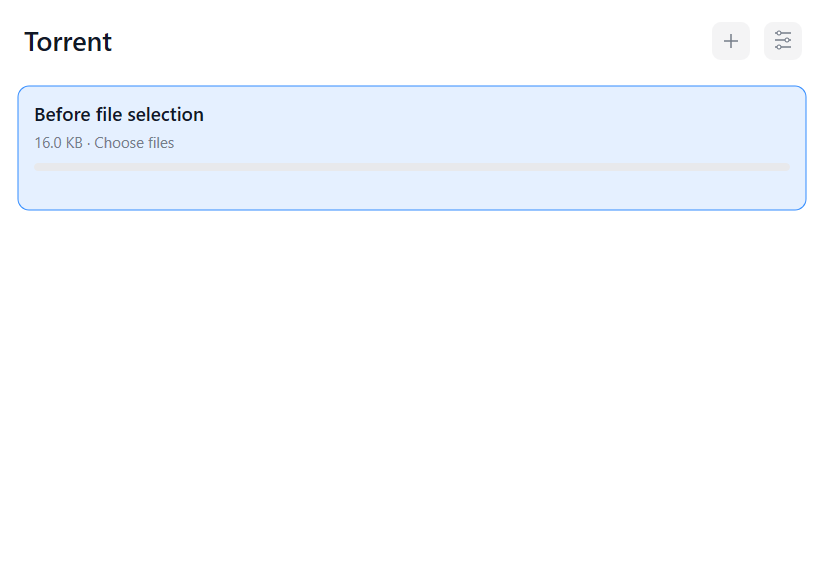
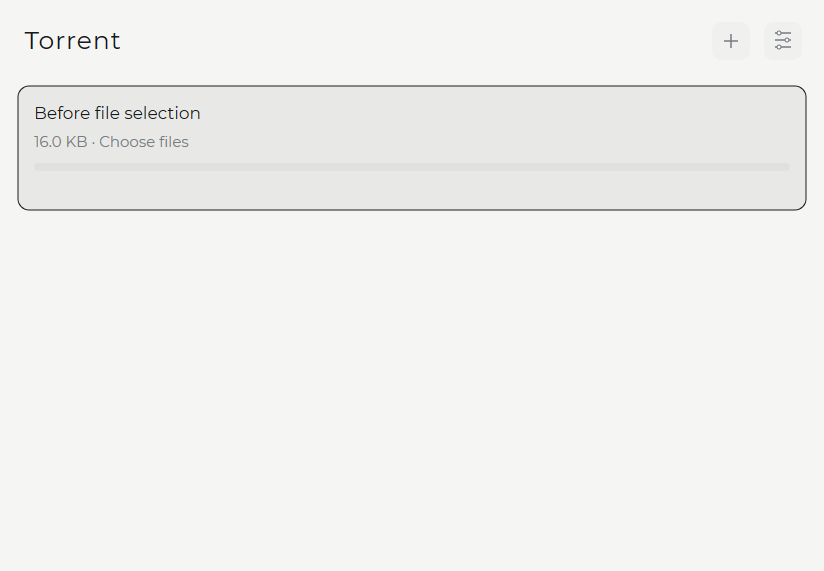
Show light and dark Montserrat themes on the project page

diff --git a/README.md b/README.md
@@ -31,8 +31,8 @@ Prefer to run the application without installing it? Download [Torrent-Windows-x
 
 | v0.1.5 package | Size |
 |---|---:|
-| Installer | About 3.2 MB |
-| Application, dependency licenses and uninstaller | About 9.7 MB |
+| Installer | About 3.7 MB |
+| Application, dependency licenses and uninstaller | About 10.1 MB |
 
 The installer works for the current user without administrator privileges. It registers `.torrent` and magnet handlers with Windows. Select Torrent in Windows **Default apps** or **Open with** to make it your preferred handler.
 
@@ -55,7 +55,7 @@ Click a torrent once to select it. Press **Space** to pause or resume, or **Dele
   <img src="docs/screenshots/setup-finish.png" width="240" alt="Installation complete" />
 </p>
 
-[Selected torrent](docs/screenshots/selected-torrent.png) · [Settings after restart](docs/screenshots/settings-after-restart.png) · [File selection](docs/screenshots/files.png) · [Settings](docs/screenshots/settings.png) · [Live dark/English settings](docs/screenshots/settings-dark-live.png) · [Styled menu](docs/screenshots/menu-dark.png) · [Pending selection](docs/screenshots/pending-selection.png) · [Installation progress](docs/screenshots/setup-progress.png)
+[Selected torrent](docs/screenshots/selected-torrent.png) · [Settings after restart](docs/screenshots/settings-after-restart.png) · [File selection](docs/screenshots/files.png) · [Light settings](docs/screenshots/settings.png) · [Dark settings](docs/screenshots/dark/settings.png) · [Dark installer](docs/screenshots/dark/setup-welcome.png) · [Live dark/English settings](docs/screenshots/settings-dark-live.png) · [Styled menu](docs/screenshots/menu-dark.png) · [Pending selection](docs/screenshots/pending-selection.png) · [Installation progress](docs/screenshots/setup-progress.png)
 
 These images are captured from the compiled Windows UI with isolated sample data, rather than concept illustrations or live downloads.
 
